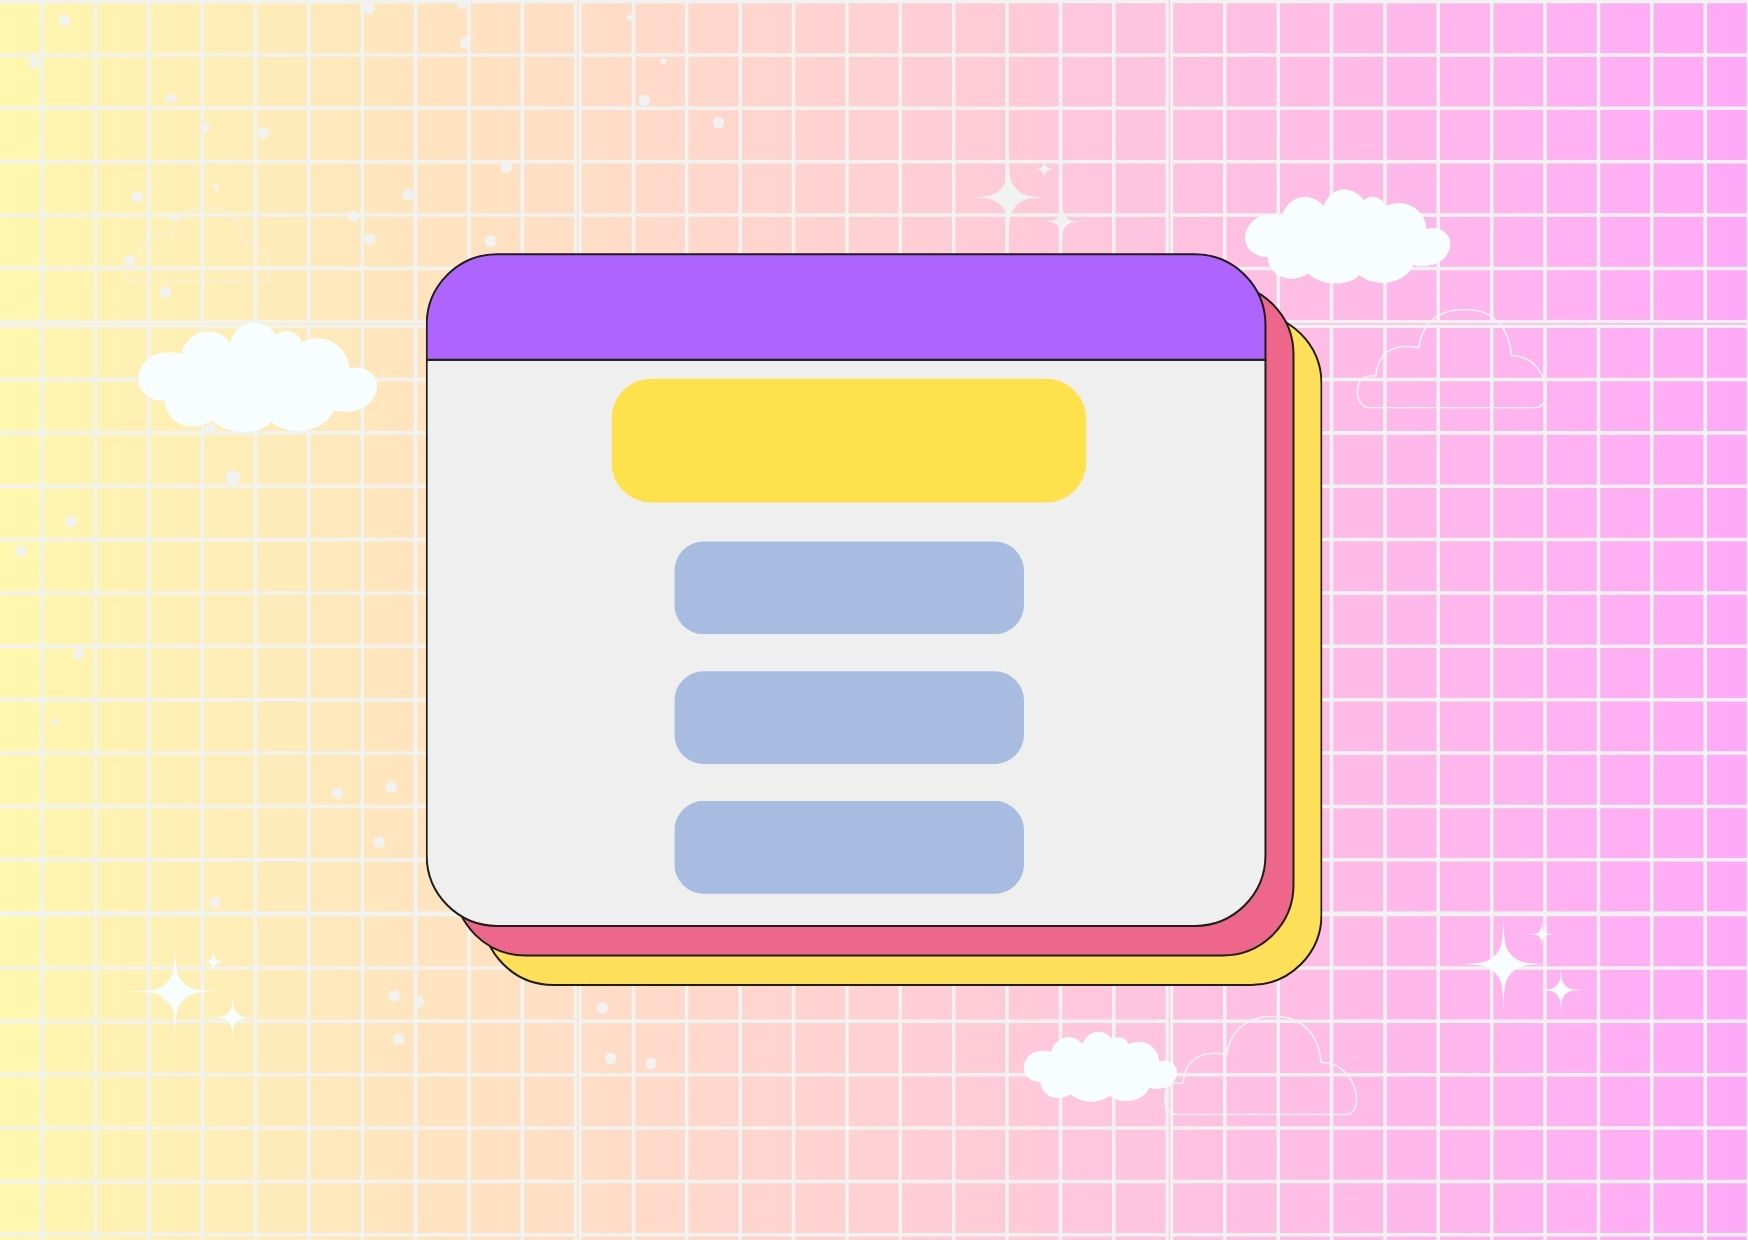
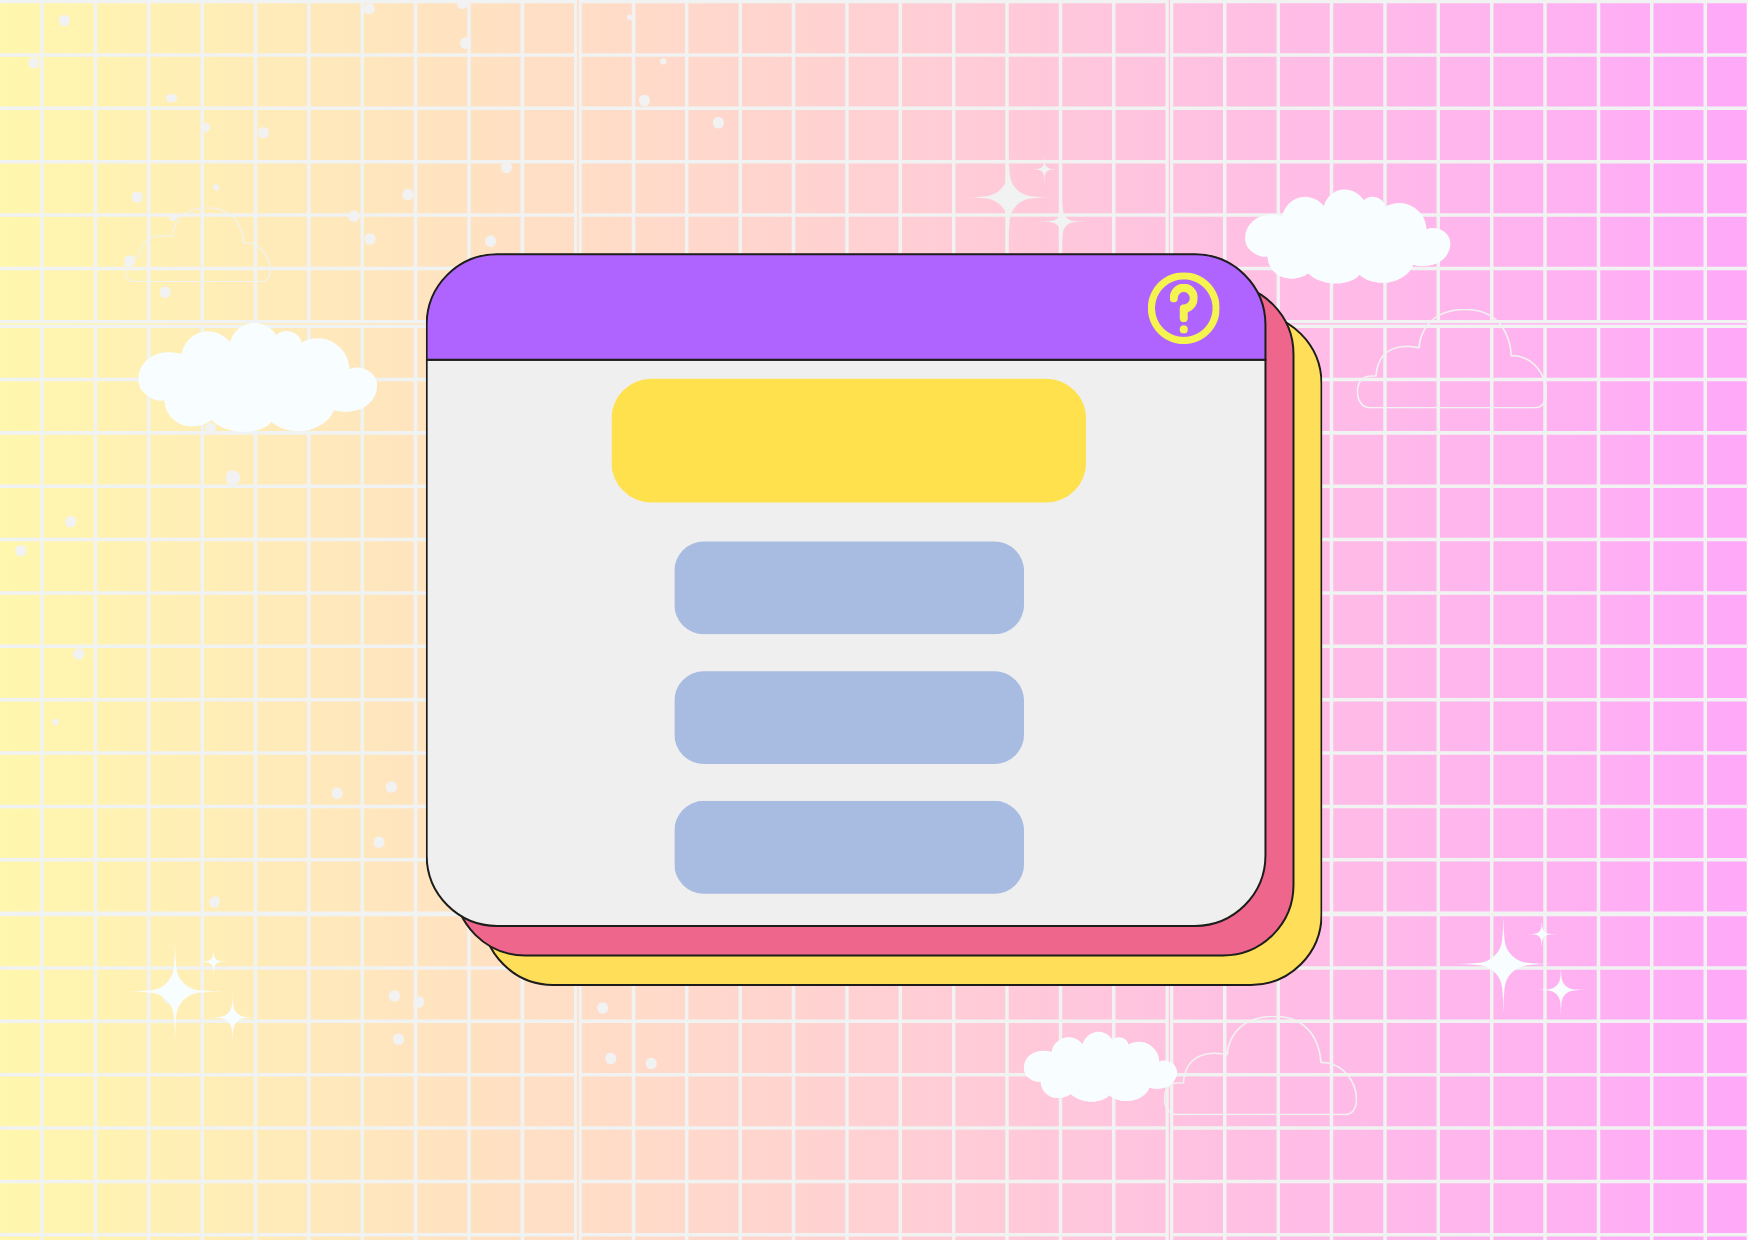
Fazendo as interfaces novas de menu (?) e jogo (A e B).

diff --git a/src/main/java/poo/trabalhofinal/supertrunfo/gui/controllers/MenuController.java b/src/main/java/poo/trabalhofinal/supertrunfo/gui/controllers/MenuController.java
@@ -19,6 +19,8 @@ public class MenuController implements Initializable {
     public Button novaCarta;
     @FXML
     public Button verCartas;
+    @FXML
+    public Button regras;
 
     @Override
     public void initialize(URL url, ResourceBundle resourceBundle) {
@@ -50,4 +52,5 @@ public class MenuController implements Initializable {
             }
         });
     }
+    //todo: fazer botão pdf
 }
